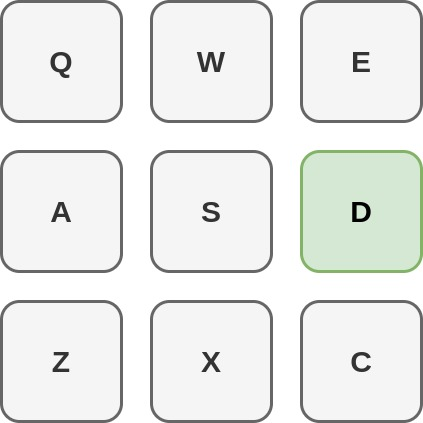
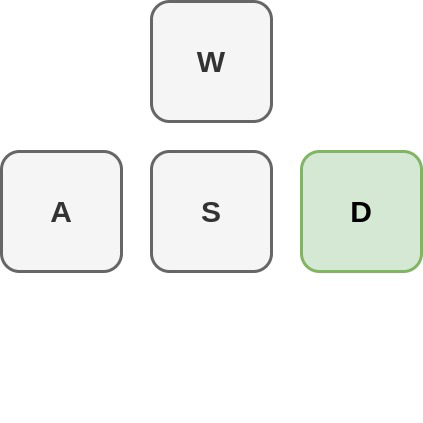
fix: browser.py

diff --git a/template/browser.py b/template/browser.py
@@ -12,21 +12,26 @@ import asyncio
 
 from aiortc import RTCPeerConnection, RTCSessionDescription, RTCConfiguration, RTCIceServer
 from aiortc.contrib.signaling import object_to_string, object_from_string
+import os
+from dotenv import load_dotenv
+load_dotenv()
 
 VERBOSE = False
 RUNNING = True
 HEALTHCHECKS = 100
-SERVER_LINK = "http://192.168.137.97:8000/rest/cars/" # "http://localhost:8000/rest/cars/" # 
 
 async def step1_wait_for_jetson_sdp(pc, sdp):
     # string = input("Jetson SDP:")
     # string += ': "offer"}'
     if sdp is not None:
         string = sdp
+        dic = {'sdp':string,'type':'offer'}
+        sdp = RTCSessionDescription(dic['sdp'],dic['type'])
     else:
-        string = input("Jetson SDP:")
-    dic = {'sdp':string,'type':'offer'}
-    sdp = RTCSessionDescription(dic['sdp'],dic['type'])
+        string = input("Jetson SDP:") + 'fingerprint:sha-256 7D:4B:28:77:AF:E7:60:B1:F0:56:CE:CB:21:77:46:D7:06:9C:54:5F:E7:DC:1F:9A:CB:27:C1:25:AC:37:AE:A8\r\na=setup:actpass\r\n", "type": "offer"}'
+        print(string)
+        sdp = object_from_string(string)
+    
     if isinstance(sdp, RTCSessionDescription):
         await pc.setRemoteDescription(sdp)
         await pc.setLocalDescription(await pc.createAnswer())
@@ -34,10 +39,12 @@ async def step1_wait_for_jetson_sdp(pc, sdp):
 async def step2_running_loop():
     global RUNNING, HEALTHCHECKS
     while RUNNING and HEALTHCHECKS != 0:
+        print("wait-1")
         HEALTHCHECKS -= 1
         await asyncio.sleep(1)
 
-async def send_answer(server_link, pc, carID):
+async def send_answer(pc, carID):
+    server_link = os.getenv('SERVER_LINK')
     print("post")
     async with aiohttp.ClientSession() as session:
         async with session.post(server_link, 
@@ -61,20 +68,23 @@ async def main(pc, sdp=None, carID=""):
 
     @pc.on("datachannel")
     def on_datachannel(channel):
-
+        print("on connect.....")
         @channel.on("message")
         def on_message(message):
             global RUNNING, HEALTHCHECKS, VERBOSE
             if message == 'active':
+                print("getmessage active")
                 HEALTHCHECKS = 100
                 if VERBOSE:
                     print("[RENEW] Healthcheck")
             elif message == 'esc':
+                print("getmessage esc")
                 RUNNING = False
 
         async def report_health():
             """Send active message to jetson nano"""
             while True:
+                print("send active")
                 channel.send("active")
                 await asyncio.sleep(0.1)
 
@@ -90,21 +100,21 @@ async def main(pc, sdp=None, carID=""):
                     channel.send(f"esc")
                     break
                 elif (
-                    key == ord('q')
-                    or key == ord('w')
-                    or key == ord('e')
+                    key == ord('w')
+                    # or key == ord('q')
+                    # or key == ord('e')
                     or key == ord('a')
                     or key == ord('s')
                     or key == ord('d')
-                    or key == ord('z')
-                    or key == ord('x')
-                    or key == ord('c')
+                    # or key == ord('z')
+                    # or key == ord('x')
+                    # or key == ord('c')
                 ):
                     img = cv2.imread(f'controller/controller_{chr(key)}.jpg')
                     channel.send(f"{chr(key)}")
                 else:
                     img = cv2.imread(f'controller/controller.jpg')
-                    channel.send(f"{chr(key)}")
+                    channel.send(f"")
                 await asyncio.sleep(0.05)
             cv2.destroyAllWindows()
             RUNNING = False
@@ -115,9 +125,9 @@ async def main(pc, sdp=None, carID=""):
     await step1_wait_for_jetson_sdp(pc, sdp)
     print("===================================")
     print(object_to_string(pc.localDescription))
-    await send_answer(SERVER_LINK, pc, carID)
+    await send_answer(pc, carID)
     await step2_running_loop()
-
+'''
 class controllerThread():
     def __init__(self, previewName):
         self.pc = RTCPeerConnection()
@@ -213,10 +223,12 @@ class camThread:
         # return self.deque[-1]
         while len(self.deque)>0:
             cv2.imshow(self.previewName, self.deque[-1])
+'''
+
 
 def watch_streaming(url, previewName):
     print(url)
-    # cv2.namedWindow(previewName, cv2.WINDOW_AUTOSIZE)
+    cv2.namedWindow(previewName, cv2.WINDOW_AUTOSIZE)
     cap = cv2.VideoCapture(f'rtmp://{url}/rtmp/live')
     while cap.isOpened():
         success, img = cap.read()
@@ -236,22 +248,29 @@ if __name__ == "__main__":
     VERBOSE = args['verbose']
     
     # Run main event loop
-    thd = mp.Process(target=watch_streaming, args=(args['ip'], "CONTROLLER",))
-    thd.start()
-    pc = RTCPeerConnection()
-    coro = main(pc)
-    # thread = threading.Thread(target=watch_streaming, args=(args['ip']))
-    # thread.start()
-    try:
-
-        loop = asyncio.get_event_loop()
-        loop.run_until_complete(coro)
-        # thread.join()
-    except KeyboardInterrupt:
-        # thd.terminate()
-        pass
+    # thd = mp.Process(target=watch_streaming, args=("192.169.137.97:8000/rest/cars/", "CONTROLLER",))
+    # thd.start()
+    # pc = RTCPeerConnection()
+    # coro = main(pc)
+    
+   
     # try:
-    #     watch_streaming(args['ip'])
+
+    #     loop = asyncio.get_event_loop()
+    #     loop.run_until_complete(coro)
+    #     # thread.join()
     # except KeyboardInterrupt:
+    #     # thd.terminate()
     #     pass
+    sdp = input("sdp:")
+    car_id = input("carid:")
+    pc = RTCPeerConnection()
+    try:
+        coro = main(pc, sdp=sdp, carID=car_id)
+        asyncio.run(coro)
+    except Exception as e:
+        print(e)
+        pass
+
+
 

diff --git a/template/Login.py b/template/Login.py
@@ -12,6 +12,8 @@ from browser import *
 
 import asyncio
 import aiohttp
+from dotenv import load_dotenv
+load_dotenv()
 
 
 IP_ADDR = "0.0.0.0"
@@ -62,8 +64,8 @@ class logindialog(QtWidgets.QDialog):
         self.doRequest()
 
     def doRequest(self):   
-
-        url = SERVER_LINK + TOKEN + '/'
+        server_link = os.getenv('SERVER_LINK')
+        url = server_link + TOKEN + '/'
         print(f"send to {url}")
 
         req = QtNetwork.QNetworkRequest(QUrl(url))
@@ -114,15 +116,16 @@ if __name__ == "__main__":
     dialog = logindialog()
     if dialog.exec_() == QtWidgets.QDialog.Accepted:
         dialog.close()
-        QCoreApplication.quit()
+        # QCoreApplication.quit()
         pc = RTCPeerConnection()
-        coro = main(pc, sdp=SDP, carID=CAR_ID)
-        thd = mp.Process(target=watch_streaming, args=(IP_ADDR, "STREAMING",))
-        thd.start()
         try:
+            coro = main(pc, sdp=SDP, carID=CAR_ID)
+            thd = mp.Process(target=watch_streaming, args=(IP_ADDR, "STREAMING",))
+            thd.start()
             asyncio.run(coro)
             thd.join()
-        except KeyboardInterrupt:
+        except Exception as e:
+            print(e)
             thd.terminate()
             pass
         sys.exit(app.exec_())

diff --git a/template/README.md b/template/README.md
@@ -10,17 +10,15 @@ $ pip3 install -r requirements.txt
 ```python
 $ python3 jetson.py
 ```
-- **2. Simulate browser (in network B)**
-```python
-$ python3 browser.py
+- To set up,
+```bash
+# create .env file and fill your SERVER_LINK
+SERVER_LINK=http://localhost:8000/<API>
 ```
 
-- if multiprocessing shows error, try
+- To run
 ```bash
-export OBJC_DISABLE_INITIALIZE_FORK_SAFETY=YES
+$ ./muimui_app
 ```
-- or just run
-```bash
-./muimui_app
-```
+
 
